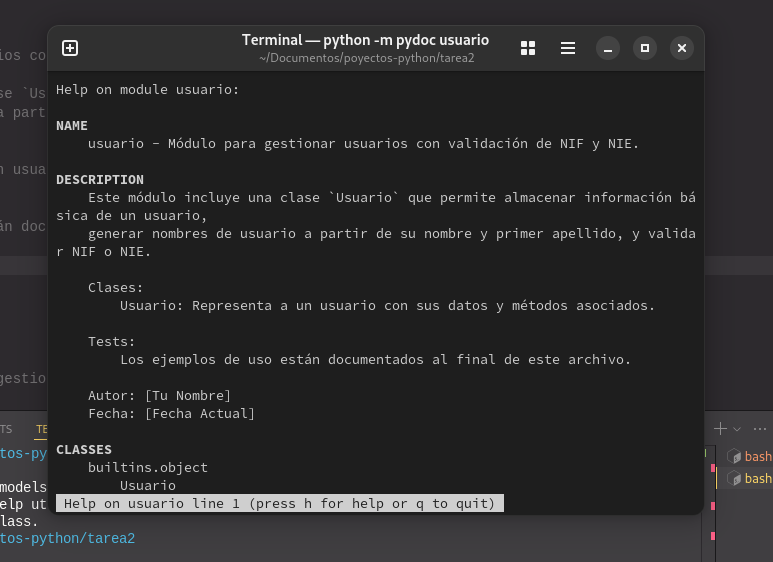
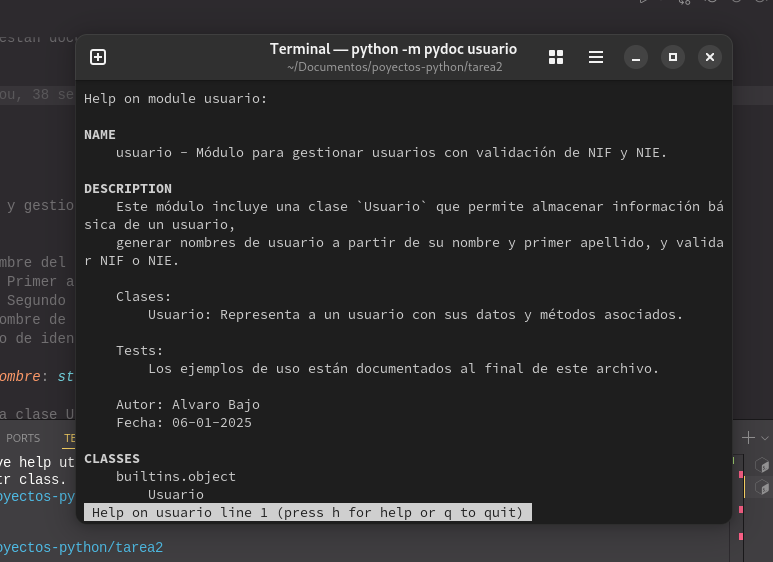
modificaciones en los comentarios

diff --git a/usuario.html b/usuario.html
@@ -20,8 +20,8 @@ Clases:<br>
 Tests:<br>
 &nbsp;&nbsp;&nbsp;&nbsp;Los&nbsp;ejemplos&nbsp;de&nbsp;uso&nbsp;están&nbsp;documentados&nbsp;al&nbsp;final&nbsp;de&nbsp;este&nbsp;archivo.<br>
 &nbsp;<br>
-Autor:&nbsp;[Tu&nbsp;Nombre]<br>
-Fecha:&nbsp;[Fecha&nbsp;Actual]</span></p>
+Autor:&nbsp;Alvaro&nbsp;Bajo<br>
+Fecha:&nbsp;06-01-2025</span></p>
 <p>
 <table class="section">
 <tr class="decor index-decor heading-text">

diff --git a/usuario.py b/usuario.py
@@ -10,8 +10,8 @@ Clases:
 Tests:
     Los ejemplos de uso están documentados al final de este archivo.
 
-Autor: [Tu Nombre]
-Fecha: [Fecha Actual]
+Autor: Alvaro Bajo
+Fecha: 06-01-2025
 """
 
 class Usuario:
